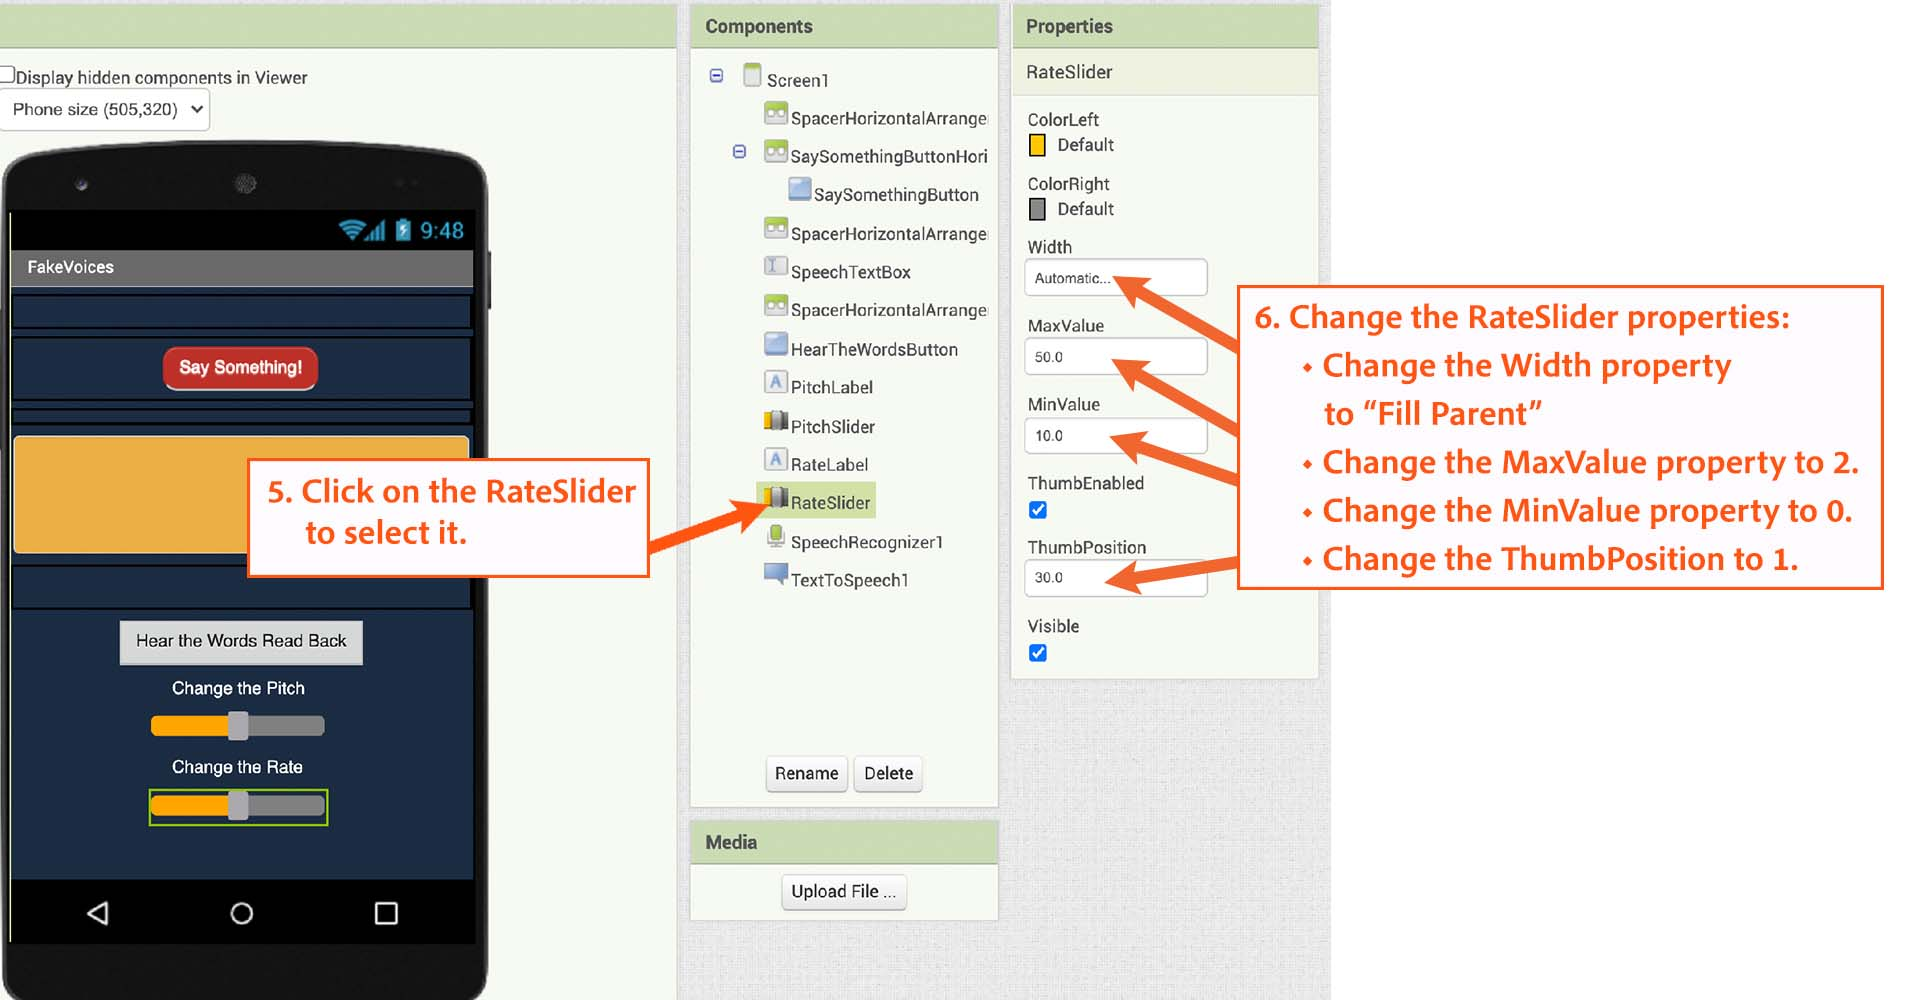
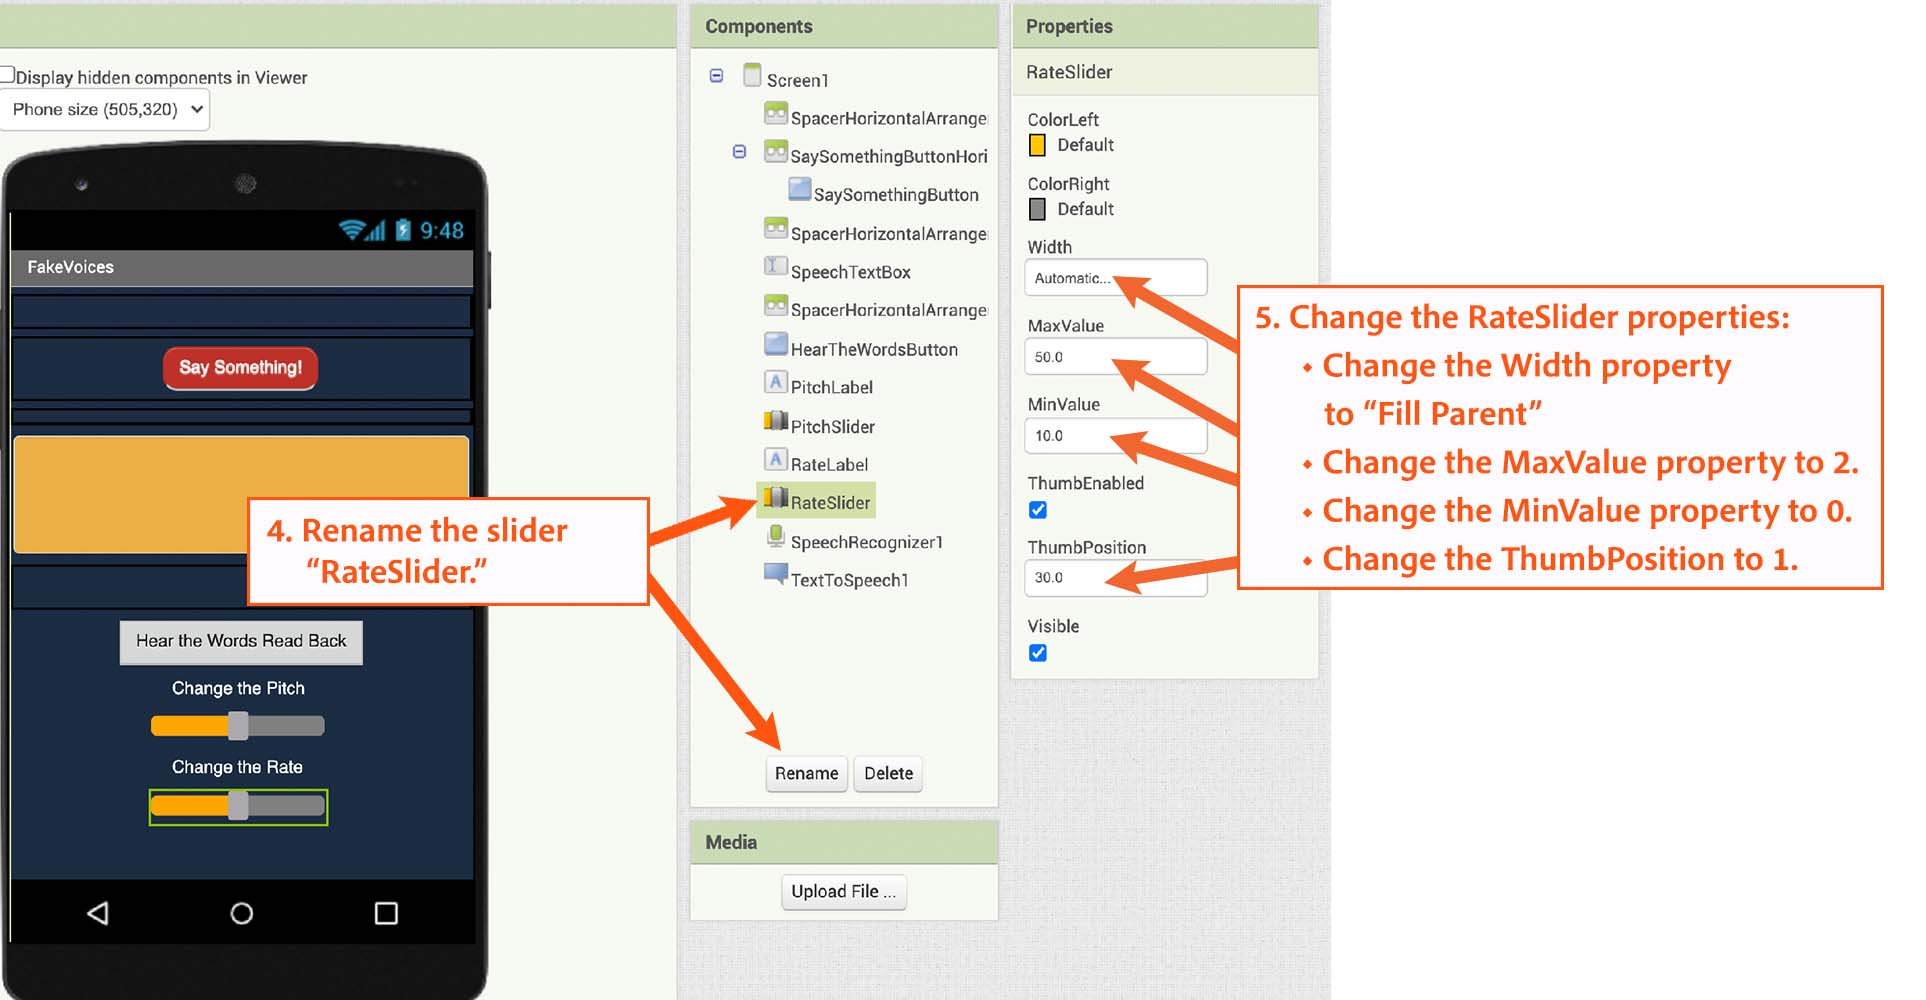
Fake_Voices_Friday_11_12

Changed region(s): [[0.1246, 0.434, 0.405, 0.682], [0.3738, 0.682, 0.405, 0.744]]

diff --git a/yr/tutorials/fake_voices.md b/yr/tutorials/fake_voices.md
@@ -69,7 +69,7 @@ In the designer view, <strong>Palette</strong> is where you find all the compone
 
 <p style="padding-bottom: 7px"></p>
 
-<strong>Components</strong> shows all the components you will use in the app. You can rename or delete them here too. (But, again, keep the components as the same for now!)
+<strong>Components</strong> shows all the components you will use in the app. You can rename or delete them here too. (But, again, keep the components the same for now!)
 
 ![Components highlights a window to the right of viewer.](../images/Fake_Voices/components.jpg){:.enlargeImage}
 
@@ -112,7 +112,7 @@ For this app, start by adding a button and a few slider bars.
 
 ![The animation shows how to add a button to the interface.](../images/Fake_Voices/Add_a_button.gif){:.enlargeImage}
 
-You just added a component to the app, but it is not connected to anything until you code later on. (It's like the doorbell at your uncle's house: there might be a button on the front door, but nothing happens when you push it.)
+You just added a component to the app, but it is not connected to anything until you code later on. (It's like the doorbell at your uncle's house: there might be a button on the front door, but nothing happens when you push it because it's usually broken.)
 
 <p style="padding-bottom: 7px"></p>
 
@@ -140,7 +140,7 @@ Make sure the button is selected in <strong>Components</strong> and change the b
 
 <span style="font-size: 110%; font-weight: bold; color:#1c2f8d;">Change the label name and text.</span> Select the label and rename it "PitchLabel". Then, go to <strong>Properties</strong> and change the label text to “Change the Pitch”. Don’t forget to change the <i>TextColor</i> to white so that people can see your new label!
 
-![The animation show how to change the label text and turn it white.](../images/Fake_Voices/change_label_text.gif){:.enlargeImage}
+![The animation shows how to change the label text and turn it white.](../images/Fake_Voices/change_label_text.gif){:.enlargeImage}
 
 <p style="padding-bottom: 7px"></p>
 
@@ -157,9 +157,9 @@ Make sure the button is selected in <strong>Components</strong> and change the b
 <p style="padding-bottom: 7px"></p>
 
 ## Add Another Slider
-<span style="font-size: 110%; font-weight: bold; color:#1c2f8d;">Drag in another label and slider to change the rate.</span> Rename the label to "RateLabel" as shown below. Change the name of the slider to “RateSlider”. Change the text for this label to “Change the Rate”. Then, change its properties as shown in the second image, below.
+<span style="font-size: 110%; font-weight: bold; color:#1c2f8d;">Drag in a label and slider to change the rate.</span> Rename the label to "RateLabel" as shown below. Change the text for this label to “Change the Rate”. Then, change the label properties. Then, change the name of the slider to “RateSlider” and change its properties as shown in the second image, below.
 
-(Note: Don’t worry about changing the appearance of these components for now. You can tweak the design once you test the app!
+(Note: Don’t worry about changing the appearance of these components for now. You can tweak the design once you test the app!)
 
 ![The image shows how to add another slider and name it rate slider.](../images/Fake_Voices/rate_slider_label.jpg){:.enlargeImage}
 ![The image shows how to change the rate slider properties.](../images/Fake_Voices/properties_for_the_rate_slider.jpg){:.enlargeImage}
@@ -301,7 +301,7 @@ Congratulations, you are done! You have created an app that recognizes speech an
   font-style: italic; font-size: 80%">Boris Karloff in the movie Frankenstein. © 1931 Universal Pictures</span>
 
 # Expand Your App
-Computers make fake voices in many different ways. The system inside a phone or tablet is a very basic one called <i>text to speech</i>. Do you think the voice from your app would fake anyone out when reading a long passage? What is missing?
+Computers make fake voices in many different ways. The system inside a phone or tablet is very basic, called <i>text to speech</i>. Do you think the voice from your app would fake anyone out when reading a long passage? What is missing?
 
 Some artificial intelligence systems — such as Siri, Google Voice, or Alexa — sound much more human. They create <i>synthetic speech</i>. These machine-learning models are trained by listening to millions of humans speak. Can they really trick the human ear? You decide.
 
@@ -314,7 +314,7 @@ Try the following experiment:
 * Paste this passage into the text box in your app and take note: Does it sound natural?
 * Next, paste this passage into one of the following artificial intelligence systems (both are free):
   - <a href="https://cloud.google.com/text-to-speech/#section-2" target="_blank"><b>Google Cloud Assistant</b></a>. Go down the page to the section on the left named “Demo.” Replace the text provided in the box with any text you want. Experiment with the <i>Language</i> and <i>Voice name</i> settings.
-  - <b><a href="https://www.ibm.com/demos/live/tts-demo/self-service/home" target="_blank">IBM Watson Text to Speech</a></b>. Replace the text provided in the box with any text you want. Experiment with the <i>Language</i>, <i>Dialect</i>, and <i>Neutral voice</i> settings.
+  - <b><a href="https://www.ibm.com/demos/live/tts-demo/self-service/home" target="_blank">IBM Watson Text to Speech</a></b>. Replace the text provided in the box with any text you want. Experiment with the <i>Language</i>, <i>Dialect</i>, and <i>Neural voice</i> settings.
 
 Which fake voices sound the most human? Which is your favorite?
 
